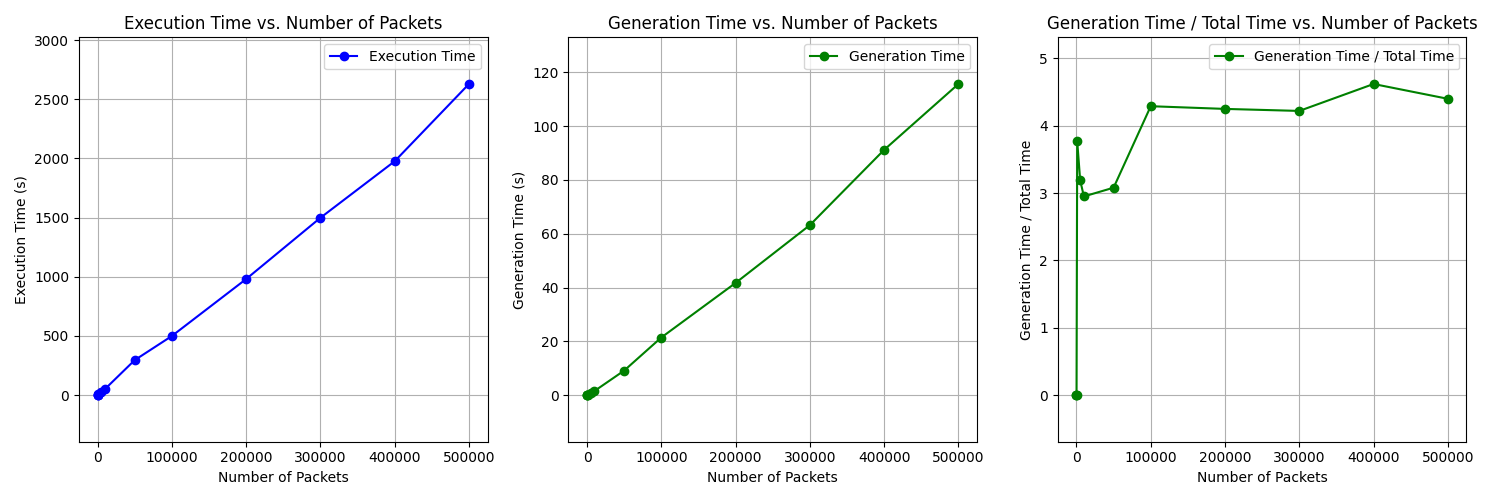
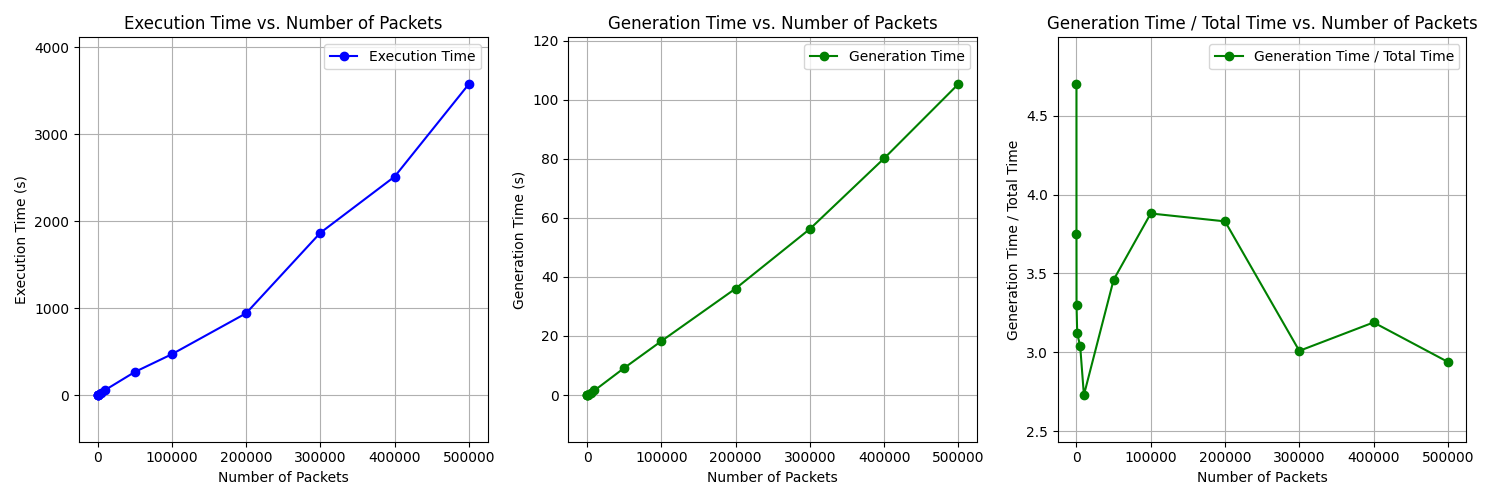
presentation prep

diff --git a/ipv6/ipv6_eval.py b/ipv6/ipv6_eval.py
@@ -30,6 +30,7 @@ class IPV6_Eval():
                  eval_choice: bool,
                  debug: bool         = False, 
                  num_packets: int    = 1, 
+                 bits_count: int     = 1,
                  address: str | None = None,
                  sleep_time: float   = 0.1
                 ) -> None:
@@ -48,6 +49,7 @@ class IPV6_Eval():
 
         self.debug       = debug
         self.num_packets = num_packets
+        self.bits_count  = bits_count
 
         # self.true_start_time = time.perf_counter()
         self.true_start_time = 0
@@ -96,7 +98,7 @@ class IPV6_Eval():
             if self.debug: print(f"========= Packet {self.packet_id} =========")
 
             self.decode_ipv6()
-            self.send_packet() if self.eval_choice == 0 else self.send_packet_via_astar()
+            self.send_packet() if self.eval_choice == 0 else self.send_packet_via_astar(self.bits_count)
             
             # time.sleep(self.sleep_time)
             if self.debug: self.report_time()
@@ -414,88 +416,170 @@ class IPV6_Eval():
 
 
 def main(args):
-    number_of_packets = [1,10,100,1000,5000,10000,50000,100000,200000,300000,400000,500000]
-    # number_of_packets = [1,10,100,1000,10000]  
-    total_execution_time = []
-    generator_execution_time = []
-    generator_percentage = []
-    for n in number_of_packets:
-        print(f"--------------------- {n} Packets ---------------------")
-        ipv6_eval = IPV6_Eval(gen_choice  = args.generator,
-                              eval_choice = args.evaluation,
-                              debug       = args.debug,    
-                              num_packets = n)
-        total, generator = ipv6_eval.execute()
-        total_execution_time.append(float(total))
-        generator_execution_time.append(float(generator))
-        generator_percentage.append(round(float(generator)/float(total) if float(total) > 0.0 else 1.0, 4) * 100.0)
+    if args.evaluation == 0:
+        number_of_packets = [1,10,100,1000,5000,10000,50000,100000,200000,300000,400000,500000]
+        # number_of_packets = [1,10,100,1000,10000, 50000, 100000]  
+        total_execution_time = []
+        generator_execution_time = []
+        generator_percentage = []
+        for n in number_of_packets:
+            print(f"--------------------- {n} Packets ---------------------")
+            ipv6_eval = IPV6_Eval(gen_choice  = args.generator,
+                                eval_choice = args.evaluation,
+                                debug       = args.debug,    
+                                num_packets = n)
+            total, generator = ipv6_eval.execute()
+            total_execution_time.append(float(total))
+            generator_execution_time.append(float(generator))
+            generator_percentage.append(round(float(generator)/float(total) if float(total) > 0.0 else 1.0, 4) * 100.0)
 
-        ipv6_eval.cleanup()
+            ipv6_eval.cleanup()
 
-    print(total_execution_time)
-    print(generator_execution_time)
-    # print(generator_execution_time)
-    # plt.figure(figsize=(8, 5))
-    # plt.plot(number_of_packets, total_execution_time, marker='o', linestyle='-', color='blue', label='Execution Time')
-    # # plt.plot(number_of_packets, generator_execution_time, marker='o', linestyle='-', color='blue', label='Generation Time')
+        print(total_execution_time)
+        print(generator_execution_time)
+        print(generator_percentage)
+        # print(generator_execution_time)
+        # plt.figure(figsize=(8, 5))
+        # plt.plot(number_of_packets, total_execution_time, marker='o', linestyle='-', color='blue', label='Execution Time')
+        # # plt.plot(number_of_packets, generator_execution_time, marker='o', linestyle='-', color='blue', label='Generation Time')
 
-    # # Add labels and title
-    # plt.xlabel('Number of Packets')
-    # plt.ylabel('Execution Time (s)')
-    # plt.title('Execution Time vs. Number of Packets')
-    # # plt.ylabel('Generation Time (s)')
-    # # plt.title('Generation Time vs. Number of Packets')
-    # plt.legend()
+        # # Add labels and title
+        # plt.xlabel('Number of Packets')
+        # plt.ylabel('Execution Time (s)')
+        # plt.title('Execution Time vs. Number of Packets')
+        # # plt.ylabel('Generation Time (s)')
+        # # plt.title('Generation Time vs. Number of Packets')
+        # plt.legend()
 
-    # # Display grid and show the plot
-    # plt.grid(True)
-    # plt.show()
+        # # Display grid and show the plot
+        # plt.grid(True)
+        # plt.show()
 
-    # Create the first graph
-    y1_range, y2_range, y3_range = max(total_execution_time) - min(total_execution_time),max(generator_execution_time)- min(generator_execution_time), max(generator_percentage)- min(generator_percentage)
-    dy1, dy2, dy3 = 0.15 * y1_range, 0.15 * y2_range, 0.15 * y3_range
-    y1_min, y1_max = min(total_execution_time) - dy1, max(total_execution_time) + dy1
-    y2_min, y2_max = min(generator_execution_time) - dy2, max(generator_execution_time) + dy2
-    y3_min, y3_max = min(generator_percentage) -dy3, max(generator_percentage) + dy3
+        # Create the first graph
+        y1_range, y2_range, y3_range = max(total_execution_time) - min(total_execution_time),max(generator_execution_time)- min(generator_execution_time), max(generator_percentage)- min(generator_percentage)
+        dy1, dy2, dy3 = 0.15 * y1_range, 0.15 * y2_range, 0.15 * y3_range
+        y1_min, y1_max = min(total_execution_time) - dy1, max(total_execution_time) + dy1
+        y2_min, y2_max = min(generator_execution_time) - dy2, max(generator_execution_time) + dy2
+        y3_min, y3_max = min(generator_percentage) -dy3, max(generator_percentage) + dy3
 
-    # print(y3_min,y3_max)
-    plt.figure(figsize=(15, 5))  # Set the figure size
+        # print(y3_min,y3_max)
+        plt.figure(figsize=(15, 5))  # Set the figure size
 
-    plt.subplot(1, 3, 1)  # 1 row, 2 columns, 1st graph
-    # plt.gca().set_aspect(plt.gca().get_data_ratio(), adjustable='datalim')
-    plt.plot(number_of_packets, total_execution_time, marker='o', label='Execution Time', color='blue')
-    plt.ylim(y1_min, y1_max)  # Set consistent y-axis limits
-    plt.title("Execution Time vs. Number of Packets")
-    plt.xlabel('Number of Packets')
-    plt.ylabel('Execution Time (s)')
-    plt.legend()
-    plt.grid(True)
+        plt.subplot(1, 3, 1)  # 1 row, 2 columns, 1st graph
+        # plt.gca().set_aspect(plt.gca().get_data_ratio(), adjustable='datalim')
+        plt.plot(number_of_packets, total_execution_time, marker='o', label='Execution Time', color='blue')
+        plt.ylim(y1_min, y1_max)  # Set consistent y-axis limits
+        plt.title("Execution Time vs. Number of Packets")
+        plt.xlabel('Number of Packets')
+        plt.ylabel('Execution Time (s)')
+        plt.legend()
+        plt.grid(True)
 
-    # Create the second graph
-    plt.subplot(1, 3, 2)  # 1 row, 2 columns, 2nd graph
-    # plt.gca().set_aspect(plt.gca().get_data_ratio(), adjustable='datalim')
-    plt.plot(number_of_packets, generator_execution_time, marker='o', label='Generation Time', color='green')
-    plt.ylim(y2_min, y2_max)  # Set consistent y-axis limits
-    plt.title("Generation Time vs. Number of Packets")
-    plt.xlabel('Number of Packets')
-    plt.ylabel('Generation Time (s)')
-    plt.legend()
-    plt.grid(True)
+        # Create the second graph
+        plt.subplot(1, 3, 2)  # 1 row, 2 columns, 2nd graph
+        # plt.gca().set_aspect(plt.gca().get_data_ratio(), adjustable='datalim')
+        plt.plot(number_of_packets, generator_execution_time, marker='o', label='Generation Time', color='green')
+        plt.ylim(y2_min, y2_max)  # Set consistent y-axis limits
+        plt.title("Generation Time vs. Number of Packets")
+        plt.xlabel('Number of Packets')
+        plt.ylabel('Generation Time (s)')
+        plt.legend()
+        plt.grid(True)
 
-    # Create the third  graph
-    plt.subplot(1, 3, 3)  # 1 row, 2 columns, 2nd graph
-    # plt.gca().set_aspect(plt.gca().get_data_ratio(), adjustable='datalim')
-    plt.plot(number_of_packets, generator_percentage, marker='o', label='Generation Time / Total Time', color='green')
-    plt.ylim(y3_min, y3_max)  # Set consistent y-axis limits
-    plt.title("Generation Time / Total Time vs. Number of Packets")
-    plt.xlabel('Number of Packets')
-    plt.ylabel('Generation Time / Total Time')
-    plt.legend()
-    plt.grid(True)
+        # Create the third  graph
+        plt.subplot(1, 3, 3)  # 1 row, 2 columns, 2nd graph
+        # plt.gca().set_aspect(plt.gca().get_data_ratio(), adjustable='datalim')
+        plt.plot(number_of_packets, generator_percentage, marker='o', label='Generation Time / Total Time', color='green')
+        plt.ylim(y3_min, y3_max)  # Set consistent y-axis limits
+        plt.title("Generation Time / Total Time vs. Number of Packets")
+        plt.xlabel('Number of Packets')
+        plt.ylabel('Generation Time / Total Time')
+        plt.legend()
+        plt.grid(True)
 
-    # Show both graphs
-    plt.tight_layout()  # Adjust layout to prevent overlap
-    plt.show()
+        # Show both graphs
+        plt.tight_layout()  # Adjust layout to prevent overlap
+        plt.show()
+    
+    else:
+        run_times = 10
+        bits = [1,2,3,4]
+        avg_total = []
+        avg_gen_exec = []
+        avg_gen_perc = []
+        for b in bits:
+            print(f"======= Bits {b} =======")
+            total_execution_time = []
+            generator_execution_time = []
+            generator_percentage = []
+            for _ in range(run_times):
+                print(f"------- Run {_} -------")
+                ipv6_eval = IPV6_Eval(gen_choice  = args.generator,
+                                      eval_choice = args.evaluation,
+                                      debug       = args.debug,    
+                                      num_packets = 1,
+                                      bits_count  = b)
+                total, generator = ipv6_eval.execute()
+                total_execution_time.append(float(total))
+                generator_execution_time.append(float(generator))
+                generator_percentage.append(round(float(generator)/float(total) if float(total) > 0.0 else 1.0, 4) * 100.0)
+
+                ipv6_eval.cleanup()
+
+            print(total_execution_time)
+            print(generator_execution_time)
+            print(generator_percentage)
+
+            avg_total.append(sum(total_execution_time)/len(total_execution_time))
+            avg_gen_exec.append(sum(generator_execution_time)/len(generator_execution_time))
+            avg_gen_perc.append(sum(generator_percentage)/len(generator_percentage))
+
+            
+        y1_range, y2_range, y3_range = max(avg_total) - min(avg_total),max(avg_gen_exec)- min(avg_gen_exec), max(avg_gen_perc)- min(avg_gen_perc)
+        dy1, dy2, dy3 = 0.15 * y1_range, 0.15 * y2_range, 0.15 * y3_range
+        y1_min, y1_max = min(avg_total) - dy1, max(avg_total) + dy1
+        y2_min, y2_max = min(avg_gen_exec) - dy2, max(avg_gen_exec) + dy2
+        y3_min, y3_max = min(avg_gen_perc) -dy3, max(avg_gen_perc) + dy3
+
+        # print(y3_min,y3_max)
+        plt.figure(figsize=(15, 5))  # Set the figure size
+
+        plt.subplot(1, 3, 1)  # 1 row, 2 columns, 1st graph
+        # plt.gca().set_aspect(plt.gca().get_data_ratio(), adjustable='datalim')
+        plt.plot(number_of_packets, total_execution_time, marker='o', label='Execution Time', color='blue')
+        plt.ylim(y1_min, y1_max)  # Set consistent y-axis limits
+        plt.title("Execution Time vs. Number of Packets")
+        plt.xlabel('Number of Packets')
+        plt.ylabel('Execution Time (s)')
+        plt.legend()
+        plt.grid(True)
+
+        # Create the second graph
+        plt.subplot(1, 3, 2)  # 1 row, 2 columns, 2nd graph
+        # plt.gca().set_aspect(plt.gca().get_data_ratio(), adjustable='datalim')
+        plt.plot(number_of_packets, generator_execution_time, marker='o', label='Generation Time', color='green')
+        plt.ylim(y2_min, y2_max)  # Set consistent y-axis limits
+        plt.title("Generation Time vs. Number of Packets")
+        plt.xlabel('Number of Packets')
+        plt.ylabel('Generation Time (s)')
+        plt.legend()
+        plt.grid(True)
+
+        # Create the third  graph
+        plt.subplot(1, 3, 3)  # 1 row, 2 columns, 2nd graph
+        # plt.gca().set_aspect(plt.gca().get_data_ratio(), adjustable='datalim')
+        plt.plot(number_of_packets, generator_percentage, marker='o', label='Generation Time / Total Time', color='green')
+        plt.ylim(y3_min, y3_max)  # Set consistent y-axis limits
+        plt.title("Generation Time / Total Time vs. Number of Packets")
+        plt.xlabel('Number of Packets')
+        plt.ylabel('Generation Time / Total Time')
+        plt.legend()
+        plt.grid(True)
+
+        # Show both graphs
+        plt.tight_layout()  # Adjust layout to prevent overlap
+        plt.show()
+
 
 
 if __name__ == '__main__':
